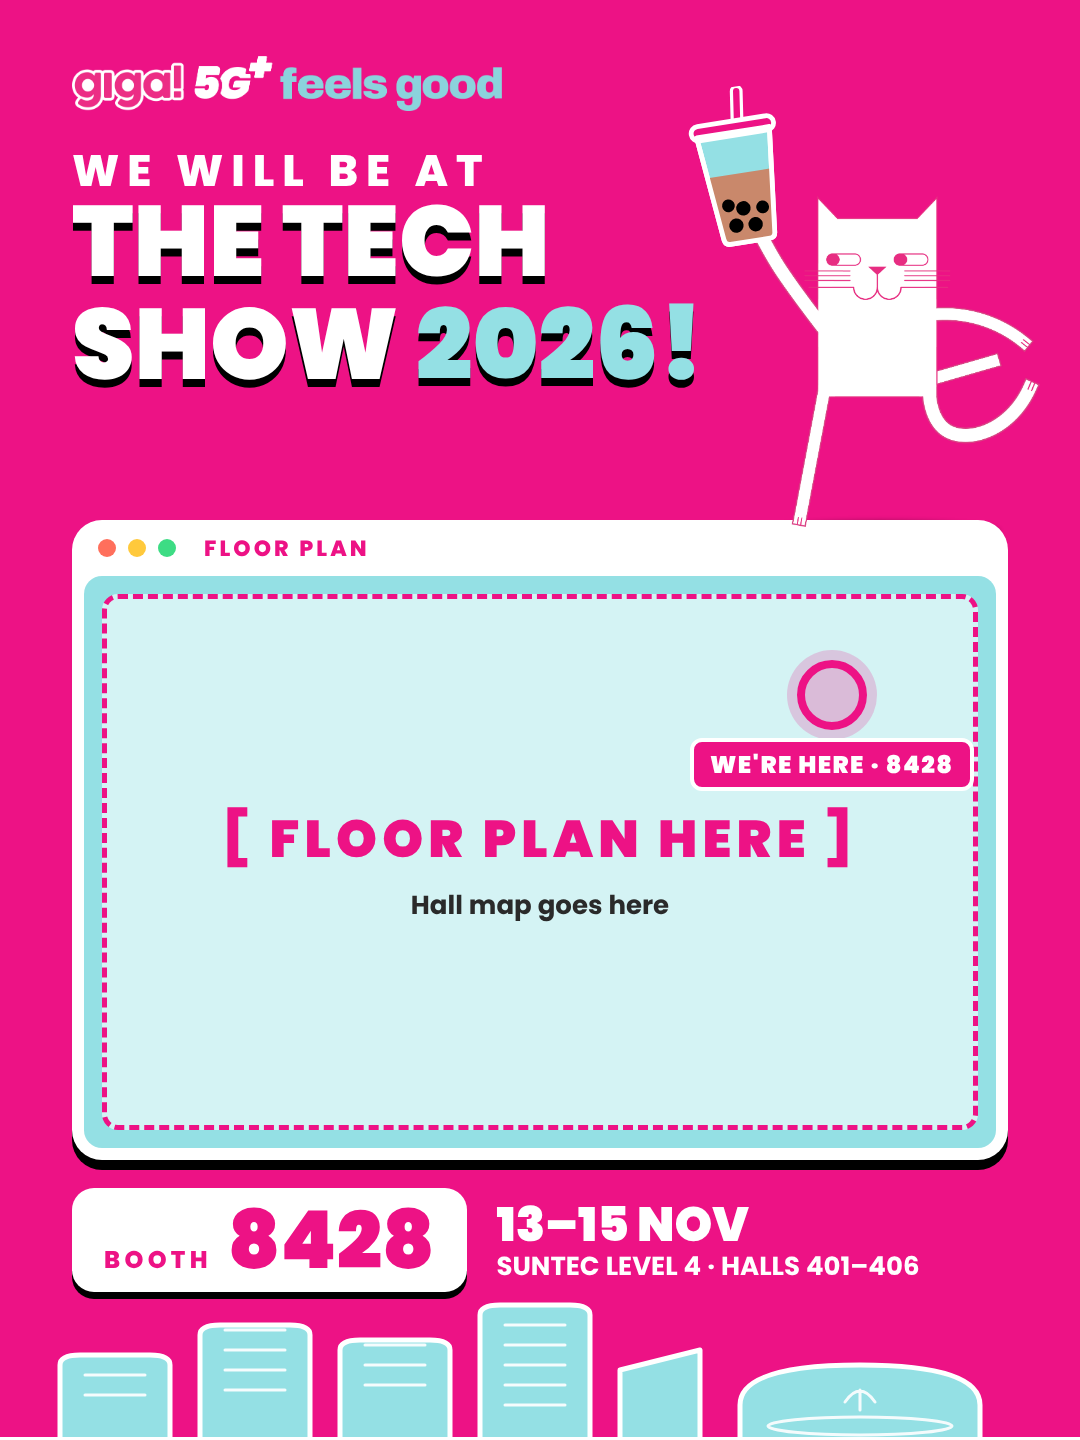
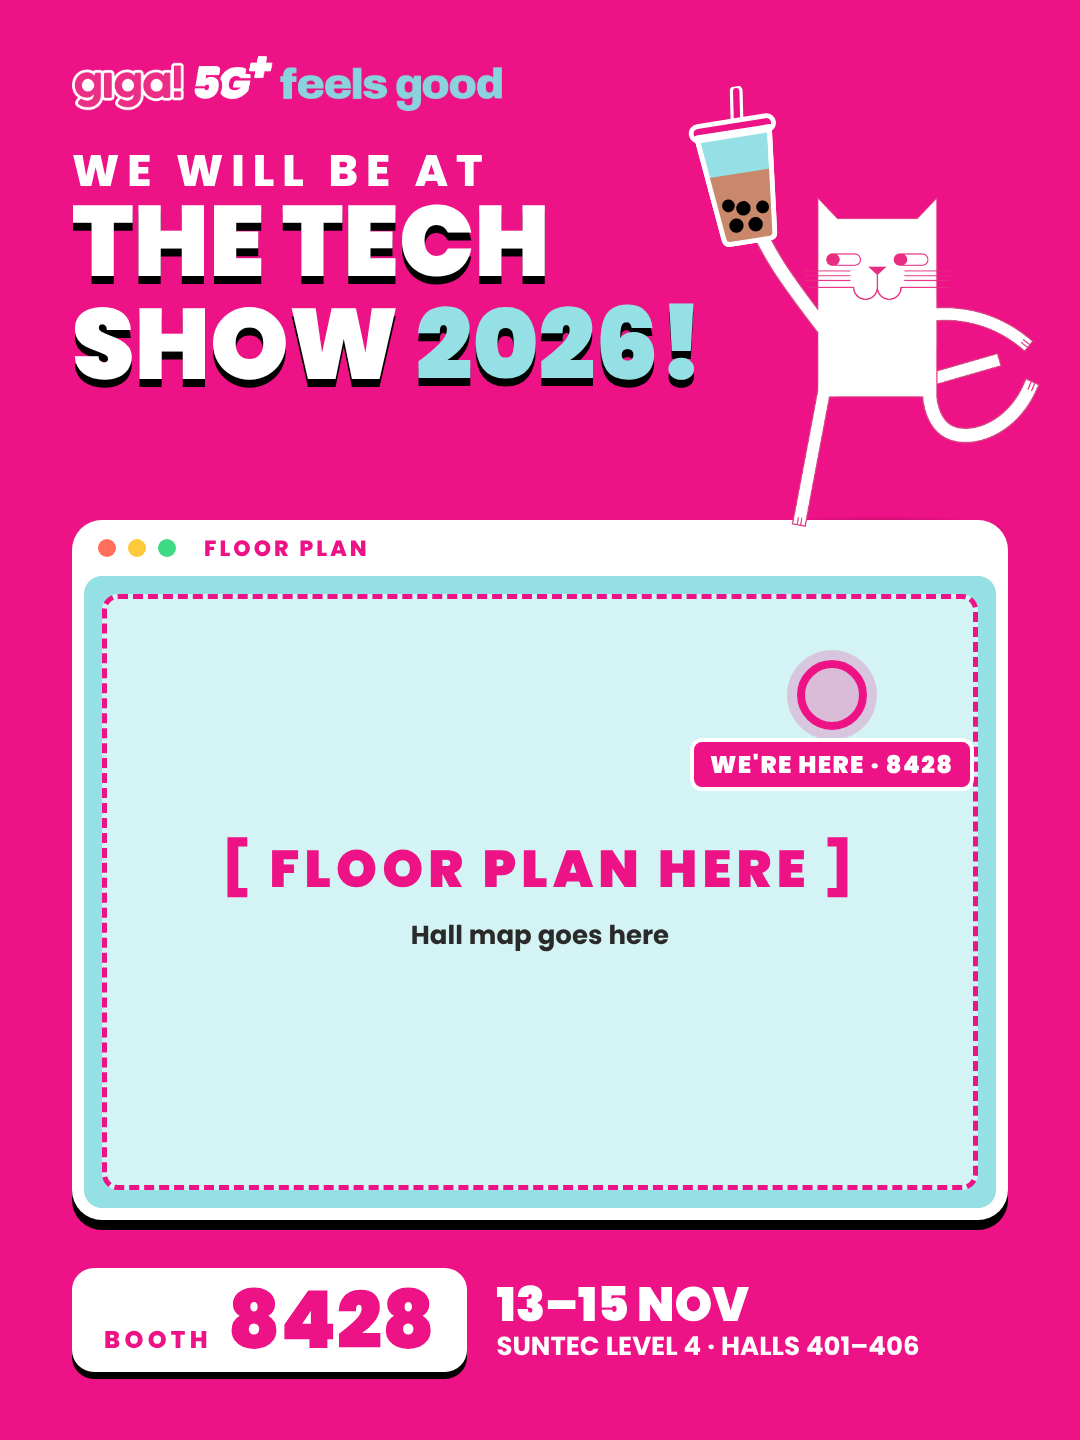
Post 1: remove Suntec skyline, restore larger floor plan
Claude-Session: https://claude.ai/code/session_01QpHBCYvf2HgUsT79rZy6ps

Changed region(s): [[0.0306, 0.7812, 0.9472, 1.0], [0.2139, 0.5625, 0.7944, 0.6562]]

diff --git a/giga-tech-show/post-1-find-us.html b/giga-tech-show/post-1-find-us.html
@@ -22,10 +22,8 @@ html,body{background:#ddd}
 .gino{position:absolute;left:740px;top:196px;width:300px;z-index:3}
 .shadow{position:absolute;left:760px;top:520px;width:240px;height:22px;border-radius:50%;background:rgba(0,0,0,.28);z-index:2;filter:blur(2px)}
 .bbt{position:absolute;left:703px;top:86px;width:96px;z-index:4;transform:rotate(-9deg);transform-origin:50% 100%}
-/* stylised Suntec skyline outline (illustrative) */
-.sky{position:absolute;left:0;bottom:0;width:1080px;height:300px;z-index:0}
 
-.window{position:absolute;left:72px;top:520px;width:936px;height:640px;z-index:2;background:var(--white);border-radius:30px;overflow:hidden;box-shadow:0 10px 0 var(--black)}
+.window{position:absolute;left:72px;top:520px;width:936px;height:700px;z-index:2;background:var(--white);border-radius:30px;overflow:hidden;box-shadow:0 10px 0 var(--black)}
 .bar{height:56px;display:flex;align-items:center;gap:12px;padding-left:26px}
 .bar i{width:18px;height:18px;border-radius:50%;display:block}
 .bar i:nth-child(1){background:var(--coral)}.bar i:nth-child(2){background:#FFC93C}.bar i:nth-child(3){background:#3DDC84}
@@ -40,7 +38,7 @@ html,body{background:#ddd}
 .marker .ring{width:70px;height:70px;border-radius:50%;border:8px solid var(--pink);background:rgba(237,18,133,.25);margin:0 auto;box-shadow:0 0 0 10px rgba(237,18,133,.2)}
 .marker .lbl{margin-top:8px;background:var(--pink);color:var(--white);font-weight:900;font-size:24px;letter-spacing:.06em;padding:5px 16px;border-radius:12px;white-space:nowrap;border:4px solid var(--white)}
 
-.strip{position:absolute;left:72px;right:72px;top:1188px;display:flex;align-items:center;gap:30px}
+.strip{position:absolute;left:72px;right:72px;top:1268px;display:flex;align-items:center;gap:30px}
 .booth{background:var(--white);color:var(--pink);border-radius:22px;padding:12px 32px;box-shadow:0 7px 0 var(--black);display:flex;align-items:baseline;gap:16px}
 .booth small{font-weight:800;font-size:24px;letter-spacing:.18em}
 .booth strong{font-weight:900;font-size:80px;line-height:1}
@@ -54,23 +52,6 @@ html,body{background:#ddd}
   <div class="pre">WE WILL BE AT</div>
   <h1 class="headline"><span>The Tech</span><span>Show <em>2026!</em></span></h1>
 
-  <svg class="sky" viewBox="0 0 1080 300" fill="#94E0E4" stroke="#fff" stroke-width="5" stroke-linejoin="round" stroke-linecap="round">
-    <!-- stylised Suntec: five towers (four fingers + thumb), convention centre dome and fountain ring. Illustrative, not to scale. -->
-    <g transform="translate(0,150) scale(1,.5)">
-      <path d="M60 300V150Q60 130 80 130H150Q170 130 170 150V300Z" vector-effect="non-scaling-stroke"/>
-      <path d="M200 300V90Q200 70 220 70H290Q310 70 310 90V300Z" vector-effect="non-scaling-stroke"/>
-      <path d="M340 300V120Q340 100 360 100H430Q450 100 450 120V300Z" vector-effect="non-scaling-stroke"/>
-      <path d="M480 300V50Q480 30 500 30H570Q590 30 590 50V300Z" vector-effect="non-scaling-stroke"/>
-      <path d="M620 300V160L700 120V300Z" vector-effect="non-scaling-stroke"/>
-      <path d="M740 300V230Q740 150 860 150T980 230V300Z" vector-effect="non-scaling-stroke"/>
-    </g>
-    <g stroke="#fff" stroke-width="3" fill="none" opacity=".9">
-      <path d="M85 215H145M85 235H145M85 255H145M225 190H285M225 210H285M225 230H285M225 250H285M365 205H425M365 225H425M365 245H425M505 185H565M505 205H565M505 225H565M505 245H565M505 265H565"/>
-      <ellipse cx="860" cy="286" rx="92" ry="9"/>
-      <path d="M860 270V250M845 262Q860 240 875 262"/>
-    </g>
-    <rect x="0" y="297" width="1080" height="3" stroke="none" fill="#fff"/>
-  </svg>
   <div class="shadow"></div>
   <img class="gino" src="assets/gino-wave.png" alt="Gino waving">
   <svg class="bbt" viewBox="0 0 120 200" aria-label="bubble tea">
